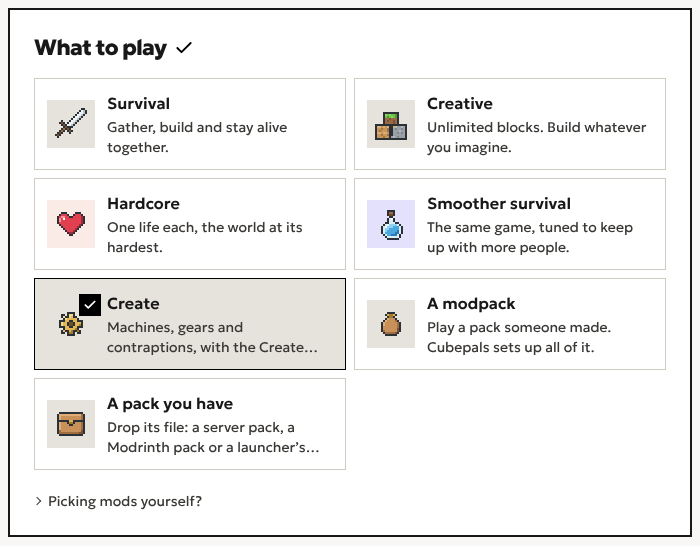
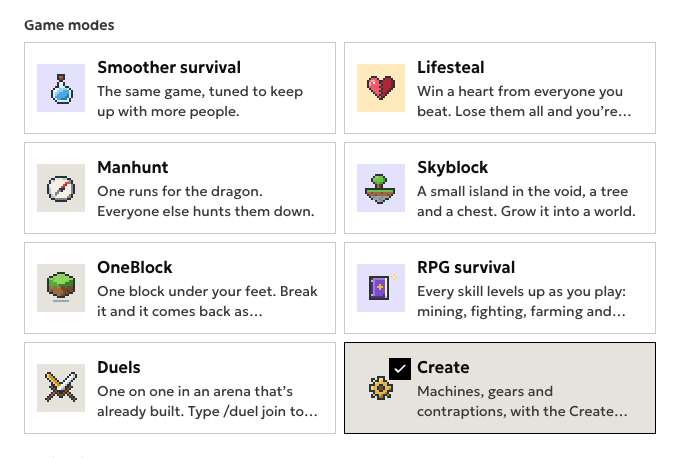
Retake the guides' create page pictures with Skyblock and More ways to play
The friends, Lifesteal and modpack guides showed the create page from
before it put three ways first and the rest under More ways to play, and
the Lifesteal guide's picture still had the SkyBlock Plus card where the
Skyblock template now is. Each is retaken from the current page at 1x
and 680px wide, with its size and alt text to match, and the Lifesteal
guide says to open More ways to play first.

diff --git a/apps/web/src/app/(public)/guides/lifesteal-manhunt-skyblock-with-friends/page.tsx b/apps/web/src/app/(public)/guides/lifesteal-manhunt-skyblock-with-friends/page.tsx
@@ -35,16 +35,16 @@ export default async function Guide() {
 
       <Part id="starting" title="Starting one">
         <p>
-          On the create page, under <strong>What to play</strong>, pick <strong>Lifesteal</strong>,{' '}
-          <strong>Manhunt</strong> or <strong>Skyblock</strong>, then say who’s playing and name it. Cubepals
-          picks the Minecraft version everything in it runs on, and says so. Your friends join with plain
-          Minecraft at that version.
+          On the create page, under <strong>What to play</strong>, open <strong>More ways to play</strong> and
+          pick <strong>Lifesteal</strong>, <strong>Manhunt</strong> or <strong>Skyblock</strong>, then say
+          who’s playing and name it. Cubepals picks the Minecraft version everything in it runs on, and says
+          so. Your friends join with plain Minecraft at that version.
         </p>
         <Shot
           src={`${PICTURES}/what-to-play.png`}
           width={680}
-          height={455}
-          alt="The What to play question with Lifesteal picked, next to Manhunt and Skyblock. Under it: Cubepals picked Minecraft 26.2, the newest that everything in Lifesteal runs on."
+          height={240}
+          alt="The game modes under More ways to play, with Lifesteal picked. Next to it: Smoother survival, Manhunt, and Skyblock, a small island in the void, a tree and a chest."
         />
       </Part>
 

diff --git a/apps/web/src/app/(public)/guides/minecraft-server-for-friends/page.tsx b/apps/web/src/app/(public)/guides/minecraft-server-for-friends/page.tsx
@@ -75,8 +75,8 @@ export default async function Guide() {
         <Shot
           src={`${PICTURES}/what-to-play.png`}
           width={680}
-          height={525}
-          alt="The “What to play” question on the create page, with Survival picked. The other choices are Creative, Hardcore, Smoother survival, Create, A modpack and A pack you have."
+          height={284}
+          alt="The “What to play” question on the create page, with Survival picked, next to Creative and Hardcore. The fourth card, More ways to play, opens Lifesteal, OneBlock, modpacks and more."
         />
         <Shot
           src={`${PICTURES}/name-it.png`}

diff --git a/apps/web/src/app/(public)/guides/play-a-modpack-with-friends/page.tsx b/apps/web/src/app/(public)/guides/play-a-modpack-with-friends/page.tsx
@@ -73,9 +73,9 @@ export default async function Guide() {
         </p>
         <Shot
           src={`${PICTURES}/create.png`}
-          width={700}
-          height={546}
-          alt="The What to play question with Create picked: Machines, gears and contraptions, with the Create mod ready to go."
+          width={680}
+          height={458}
+          alt="The game modes under More ways to play, with Create picked: Machines, gears and contraptions, with the Create mod ready to go."
         />
       </Part>
 
